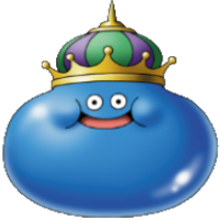
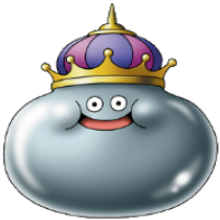
picture updates

diff --git a/PlayerCode/Red_1.py b/PlayerCode/Red_1.py
@@ -8,7 +8,7 @@ import random
 # merge at the end of the game
 class Player(PlayerBase):
     def __init__(self, player_id):
-        super().__init__(id, "Red 1: King Maker", 'images/Baddie.png', 'images/baddie_king.png')
+        super().__init__(id, "Red 1: King Maker", 'default', 'default')
         self.id = player_id
         self.friends = []
         self.enemies =[]
@@ -111,7 +111,7 @@ class Player(PlayerBase):
         for enemy in self.enemies:
             enemy_power += enemy['level']
 
-        if friend_power > 30:
+        if friend_power > 60:
             target = nearest_enemy
         elif friend_power > enemy_power and nearest_enemy_distance < 10:
             target = nearest_enemy

diff --git a/visualizer/slime_sprite.py b/visualizer/slime_sprite.py
@@ -12,7 +12,7 @@ class SlimeSprite(arcade.Sprite):
         super().__init__(self.filename, self.scale_adj)
 
     def choose_texture(self, piece):
-        if piece['level'] < 10:
+        if piece['level'] <8:
             if piece['image_1'] == 'default':
                 if piece['player_id'] == 1:
                     filename = self.conf['Slime'].get('player_one_basic')
